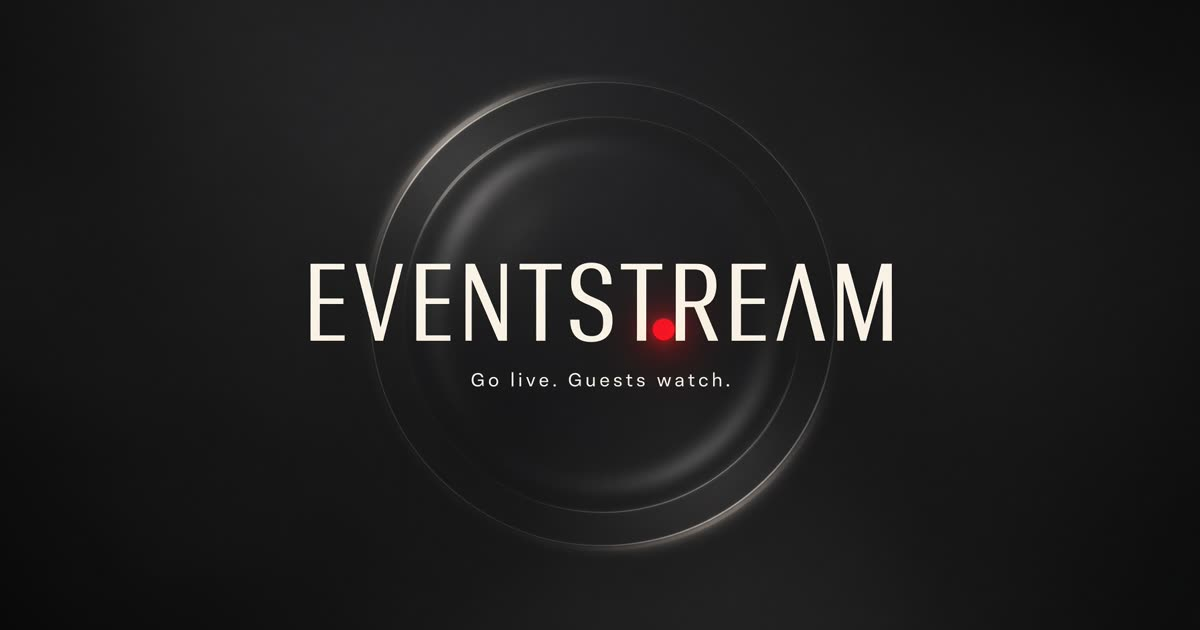
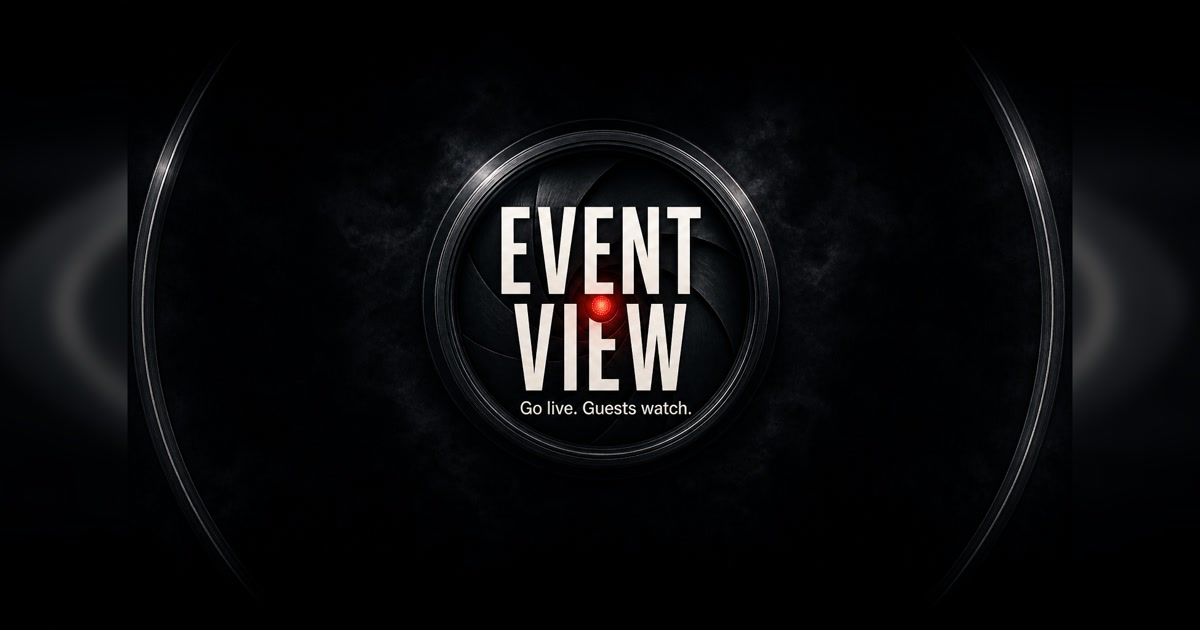
Rename product from Eventstream to EventView
Rebrand the livestream watch app so user-facing copy, metadata, and
internal product keys use EventView. Livestream, guest viewing, and
host go-live behavior are unchanged.

diff --git a/.grok/favicon-preview.html b/.grok/favicon-preview.html
@@ -1,13 +1,31 @@
 <!doctype html>
-<meta charset="utf-8">
-<style>
-  html, body { margin: 0; padding: 0; background: #ddd; }
-  .row { display: flex; gap: 8px; padding: 8px; align-items: end; }
-  img { display: block; image-rendering: auto; }
-</style>
+<html><head><style>
+html,body{margin:0;background:#666}
+.row{display:flex;gap:24px;padding:24px;align-items:flex-end}
+.tile{background:#0e0f12;display:flex;align-items:center;justify-content:center}
+</style></head>
+<body>
 <div class="row">
-  <img src="file:///workspace/public/favicon.svg" width="16" height="16" alt="16">
-  <img src="file:///workspace/public/favicon.svg" width="32" height="32" alt="32">
-  <img src="file:///workspace/public/favicon.svg" width="64" height="64" alt="64">
-  <img src="file:///workspace/public/favicon.svg" width="128" height="128" alt="128">
+  <div class="tile" style="width:16px;height:16px"><svg width="16" height="16" xmlns="http://www.w3.org/2000/svg" viewBox="0 0 32 32">
+  <rect width="32" height="32" rx="7" fill="#0e0f12"/>
+  <circle cx="16" cy="16" r="9.5" fill="none" stroke="#e8e4dc" stroke-width="1.8"/>
+  <circle cx="16" cy="16" r="6.2" fill="none" stroke="#e8e4dc" stroke-width="0.9" opacity="0.45"/>
+  <circle cx="16" cy="16" r="2.4" fill="#ef4444"/>
+</svg>
 </div>
+  <div class="tile" style="width:32px;height:32px"><svg width="32" height="32" xmlns="http://www.w3.org/2000/svg" viewBox="0 0 32 32">
+  <rect width="32" height="32" rx="7" fill="#0e0f12"/>
+  <circle cx="16" cy="16" r="9.5" fill="none" stroke="#e8e4dc" stroke-width="1.8"/>
+  <circle cx="16" cy="16" r="6.2" fill="none" stroke="#e8e4dc" stroke-width="0.9" opacity="0.45"/>
+  <circle cx="16" cy="16" r="2.4" fill="#ef4444"/>
+</svg>
+</div>
+  <div class="tile" style="width:64px;height:64px"><svg width="64" height="64" xmlns="http://www.w3.org/2000/svg" viewBox="0 0 32 32">
+  <rect width="32" height="32" rx="7" fill="#0e0f12"/>
+  <circle cx="16" cy="16" r="9.5" fill="none" stroke="#e8e4dc" stroke-width="1.8"/>
+  <circle cx="16" cy="16" r="6.2" fill="none" stroke="#e8e4dc" stroke-width="0.9" opacity="0.45"/>
+  <circle cx="16" cy="16" r="2.4" fill="#ef4444"/>
+</svg>
+</div>
+</div>
+</body></html>

diff --git a/src/lib/live-config.ts b/src/lib/live-config.ts
@@ -1,13 +1,25 @@
 export const HOST_IDENTITY = "streamer";
-export const HOST_GATE_KEY = "vows-host-ok";
-export const HOST_PW_KEY = "vows-host-pw";
-export const GUEST_ID_KEY = "vows-guest-id";
+export const HOST_GATE_KEY = "eventview-host-ok";
+export const HOST_PW_KEY = "eventview-host-pw";
+export const GUEST_ID_KEY = "eventview-guest-id";
 export const MAX_VIEWERS = 220;
-export const PRODUCTION_LIVE_API = "https://yoan-claire-live.vercel.app/api/live";
+
+function productionOrigin() {
+  const fromEnv = (
+    (typeof import.meta !== "undefined"
+      ? (import.meta.env as Record<string, string | undefined>).VITE_PRODUCTION_ORIGIN
+      : undefined) ?? ""
+  ).trim();
+  return fromEnv.replace(/\/$/, "") || "https://yoan-claire-live.vercel.app";
+}
+
+/** Existing Vercel deploy host (repo slug unchanged). Override with VITE_PRODUCTION_ORIGIN. */
+export const PRODUCTION_ORIGIN = productionOrigin();
+export const PRODUCTION_LIVE_API = `${PRODUCTION_ORIGIN}/api/live`;
 
 export function liveRoomName(roomId: string) {
   const slug = roomId.toLowerCase().replace(/[^a-z0-9_-]/g, "").slice(0, 40);
-  return `vows-${slug || "ceremony"}`;
+  return `eventview-${slug || "live"}`;
 }
 
 export function guestIdentity() {
@@ -15,7 +27,7 @@ export function guestIdentity() {
     return `g-${crypto.randomUUID().replace(/-/g, "").slice(0, 12)}`;
   }
   let id = sessionStorage.getItem(GUEST_ID_KEY);
-  if (!id || !/^g-[a-zA-Z0-9_-]{6,32}$/.test(id)) {
+  if (!id || !/^g-[a-z0-9_-]{6,32}$/i.test(id)) {
     id = `g-${crypto.randomUUID().replace(/-/g, "").slice(0, 12)}`;
     sessionStorage.setItem(GUEST_ID_KEY, id);
   }

diff --git a/src/lib/live-broadcast.ts b/src/lib/live-broadcast.ts
@@ -1,6 +1,13 @@
 import { AudioPresets, ConnectionState, Room, RoomEvent, Track, VideoPresets, VideoQuality, type LocalTrackPublication, type RemoteParticipant, type RemoteTrack, type RemoteTrackPublication } from "livekit-client";
 import { chatLabel, isChatId, type ChatLine } from "@/lib/crowd";
-import { HOST_IDENTITY, HOST_PW_KEY, PRODUCTION_LIVE_API, guestIdentity } from "@/lib/live-config";
+import { eventConfig } from "@/lib/event-config";
+import {
+  HOST_IDENTITY,
+  HOST_PW_KEY,
+  PRODUCTION_LIVE_API,
+  PRODUCTION_ORIGIN,
+  guestIdentity,
+} from "@/lib/live-config";
 
 export type LiveStats = {
   watching: number;
@@ -44,7 +51,7 @@ async function fetchLiveToken(role: "host" | "guest", password?: string): Promis
   const payload =
     role === "guest" ? { role, identity: guestIdentity() } : { role, password };
   const endpoints = ["/api/live"];
-  if (typeof window !== "undefined" && window.location.origin !== "https://yoan-claire-live.vercel.app") {
+  if (typeof window !== "undefined" && window.location.origin !== PRODUCTION_ORIGIN) {
     endpoints.push(PRODUCTION_LIVE_API);
   }
 
@@ -165,7 +172,7 @@ export async function copyWatchLink() {
   } catch {
     if (typeof navigator.share !== "function") return "failed" as const;
     try {
-      await navigator.share({ title: "Watch live", url });
+      await navigator.share({ title: `Watch on ${eventConfig.productName}`, url });
       return "shared" as const;
     } catch (err) {
       if (err instanceof Error && err.name === "AbortError") return "cancelled" as const;

diff --git a/src/routes/api/live.ts b/src/routes/api/live.ts
@@ -52,7 +52,7 @@ async function proxyProduction(init?: RequestInit) {
       ...init,
       headers: {
         "content-type": "application/json",
-        "x-eventstream-proxy": "1",
+        "x-eventview-proxy": "1",
         ...(init?.headers ?? {}),
       },
     });
@@ -165,7 +165,7 @@ async function handle(request: Request) {
     if (request.method === "OPTIONS") {
       return new Response(null, { status: 204, headers: CORS });
     }
-    if (request.headers.get("x-eventstream-proxy") === "1" && !livekitEnv().ok) {
+    if (request.headers.get("x-eventview-proxy") === "1" && !livekitEnv().ok) {
       return json({ error: "not_configured", configured: false });
     }
     if (request.method === "GET") return await handleGet();

diff --git a/src/lib/event-config.ts b/src/lib/event-config.ts
@@ -4,12 +4,12 @@ const env = (key: string, fallback: string) => {
 };
 
 export const eventConfig = {
-  productName: env("VITE_PRODUCT_NAME", "Eventstream"),
-  eventName: env("VITE_EVENT_NAME", env("VITE_COUPLE_NAMES", "Eventstream")),
+  productName: env("VITE_PRODUCT_NAME", "EventView"),
+  eventName: env("VITE_EVENT_NAME", env("VITE_COUPLE_NAMES", "EventView")),
   eventDate: env("VITE_EVENT_DATE", ""),
   kicker: env("VITE_KICKER", env("VITE_VENUE_LINE", "Live")),
   playbackUrl: env("VITE_PLAYBACK_URL", ""),
   hostPassword: env("VITE_HOST_PASSWORD", "vow"),
   chatEnabled: env("VITE_CHAT_ENABLED", "true") === "true",
-  roomId: env("VITE_ROOM_ID", "ceremony"),
+  roomId: env("VITE_ROOM_ID", "live"),
 } as const;

diff --git a/src/routes/__root.tsx b/src/routes/__root.tsx
@@ -17,7 +17,10 @@ export const Route = createRootRoute({
       },
       {
         name: "description",
-        content: `Watch ${eventConfig.eventName} live on ${eventConfig.productName}. No account needed.`,
+        content:
+          eventConfig.eventName === eventConfig.productName
+            ? `Watch live on ${eventConfig.productName}. No account needed.`
+            : `Watch ${eventConfig.eventName} live on ${eventConfig.productName}. No account needed.`,
       },
       { name: "theme-color", content: "#0e0f12" },
       { name: "apple-mobile-web-app-capable", content: "yes" },

diff --git a/src/lib/archive-db.ts b/src/lib/archive-db.ts
@@ -1,4 +1,4 @@
-const DB_NAME = "eventstream-archive";
+const DB_NAME = "eventview-archive";
 const STORE = "clips";
 
 function openDb(): Promise<IDBDatabase> {

diff --git a/README.md b/README.md
@@ -1,6 +1,6 @@
-# Eventstream
+# EventView
 
-Private live event watch page. The streamer taps **Go live** on `/host`. Guests open the homepage and only watch. The picture stays on this site.
+Event livestream and watch experience. The streamer taps **Go live** on `/host`. Guests open the homepage and only watch. The picture stays on this site.
 
 The filming phone publishes **once** into LiveKit Cloud. Guests subscribe from the SFU. This website stays on Vercel.
 
@@ -28,7 +28,7 @@ Add these on the Vercel project (server only — not `VITE_`):
 - `LIVEKIT_API_SECRET`
 - Optional: `HOST_PASSWORD` — overrides the client host gate if you want a secret that is not in the page
 
-Optional labels: `VITE_EVENT_NAME`, `VITE_EVENT_DATE`, `VITE_KICKER`.
+Optional labels: `VITE_EVENT_NAME`, `VITE_EVENT_DATE`, `VITE_KICKER`. Override the product name with `VITE_PRODUCT_NAME` if needed. Preview environments can point at the production token API with `VITE_PRODUCTION_ORIGIN`.
 
 ## Optional backup
 
